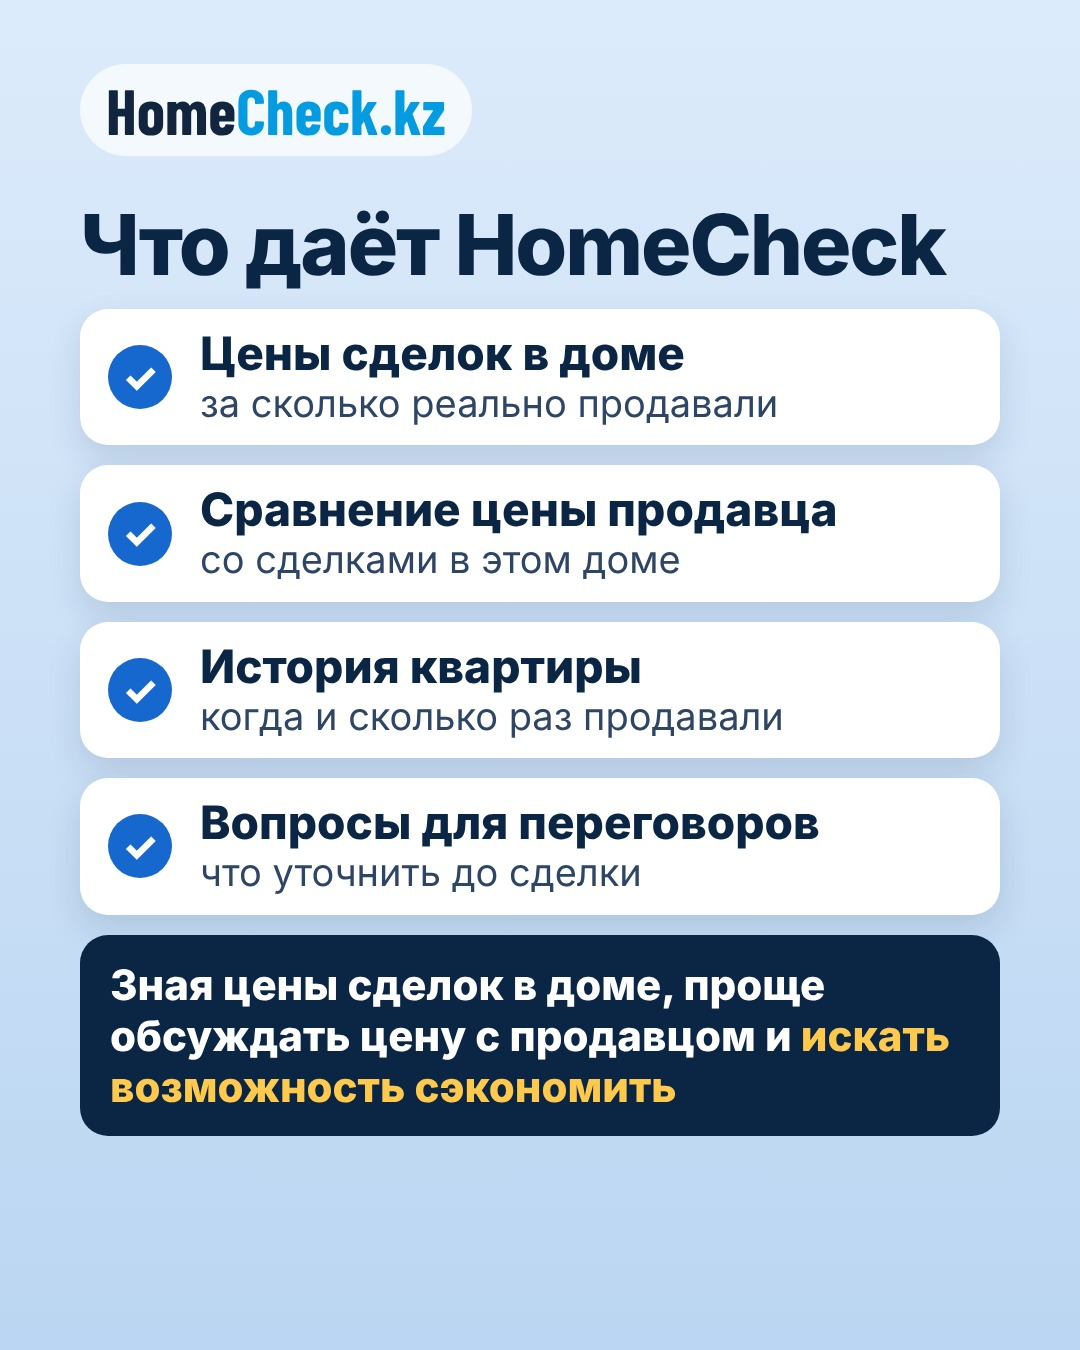
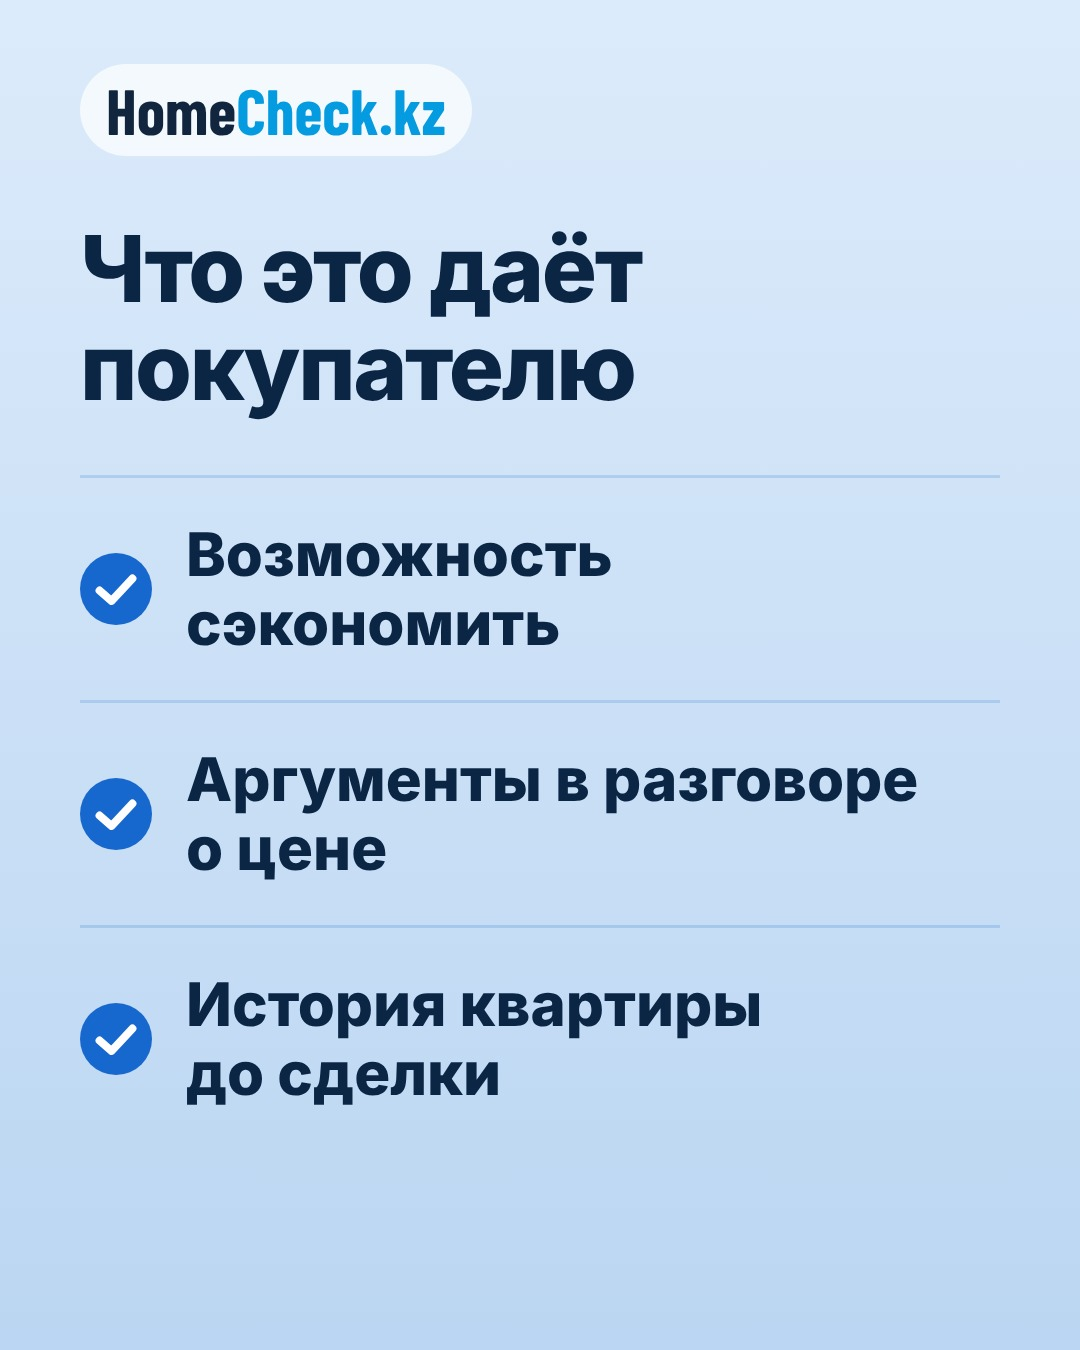
Analytics post v3: concise buyer benefits slide
Claude-Session: https://claude.ai/code/session_01YPTRhbcfXRBnSeVtmn8ipe

diff --git a/posts/analitika-obyavleniya-sdelki/build.py b/posts/analitika-obyavleniya-sdelki/build.py
@@ -96,18 +96,13 @@ def compare2():
 
 
 def benefits():
-    items = [('Цены сделок в доме', 'за сколько реально продавали'),
-             ('Сравнение цены продавца', 'со сделками в этом доме'),
-             ('История квартиры', 'когда и сколько раз продавали'),
-             ('Вопросы для переговоров', 'что уточнить до сделки')]
-    rows = ''.join(
-        f'<div style="display:flex;gap:28px;align-items:center;background:#fff;border-radius:28px;padding:18px 28px;box-shadow:0 14px 34px rgba(11,37,69,.12)">'
-        f'<div style="width:64px;height:64px;flex:none;border-radius:50%;background:{BLUE};color:#fff;font-size:40px;font-weight:800;display:flex;align-items:center;justify-content:center">✓</div>'
-        f'<div><div style="font-size:46px;font-weight:800;line-height:1.15">{t}</div><div style="font-size:38px;color:#2F4566;line-height:1.25">{d}</div></div></div>'
-        for t, d in items)
-    return (f'<div class="box" style="top:200px;gap:20px"><h2 class="t" style="font-size:84px;white-space:nowrap">Что даёт HomeCheck</h2>{rows}'
-            f'<div style="background:{NAVY};color:#fff;border-radius:28px;padding:24px 30px;font-size:42px;font-weight:800;line-height:1.22">'
-            f'Зная цены сделок в доме, проще обсуждать цену с продавцом и <span class="y">искать возможность сэкономить</span></div></div>')
+    items = ['Возможность сэкономить', 'Аргументы в разговоре о&nbsp;цене', 'История квартиры до&nbsp;сделки']
+    check = (f'<svg viewBox="0 0 24 24" width="72" height="72" style="flex:none"><circle cx="12" cy="12" r="12" fill="{BLUE}"/>'
+             '<path d="M6.5 12.5 L10.5 16 L17.5 8.5" stroke="#fff" stroke-width="2.6" fill="none" stroke-linecap="round" stroke-linejoin="round"/></svg>')
+    rows = ''.join(f'<div style="display:flex;gap:34px;align-items:center;padding:42px 0;border-top:3px solid rgba(23,104,206,.18)">'
+                   f'{check}<span style="font-size:60px;font-weight:800;line-height:1.15">{t}</span></div>' for t in items)
+    return (f'<div class="box" style="top:220px;gap:30px"><h2 class="t">Что это даёт покупателю</h2>'
+            f'<div style="margin-top:30px">{rows}</div></div>')
 
 
 def money():
